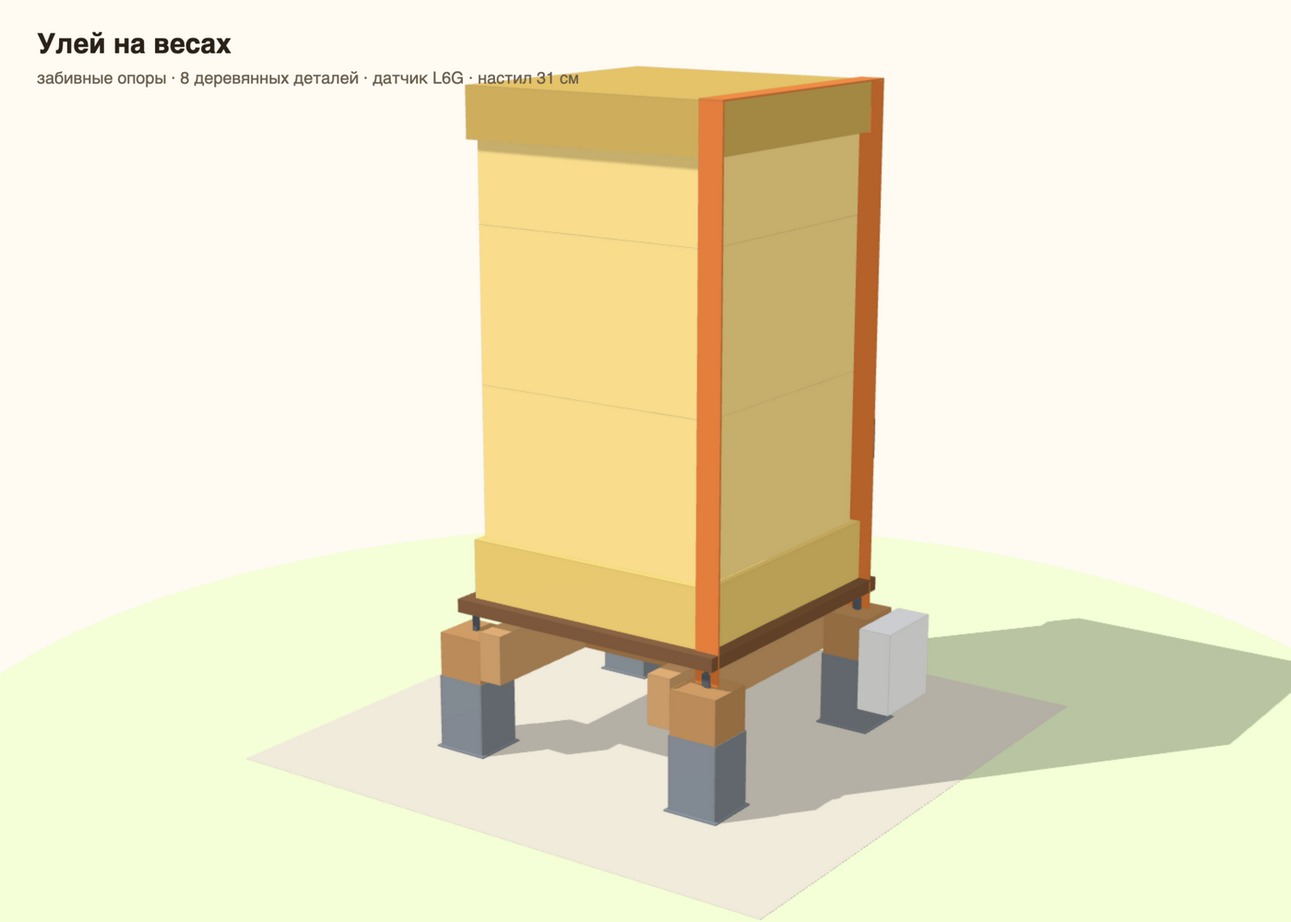
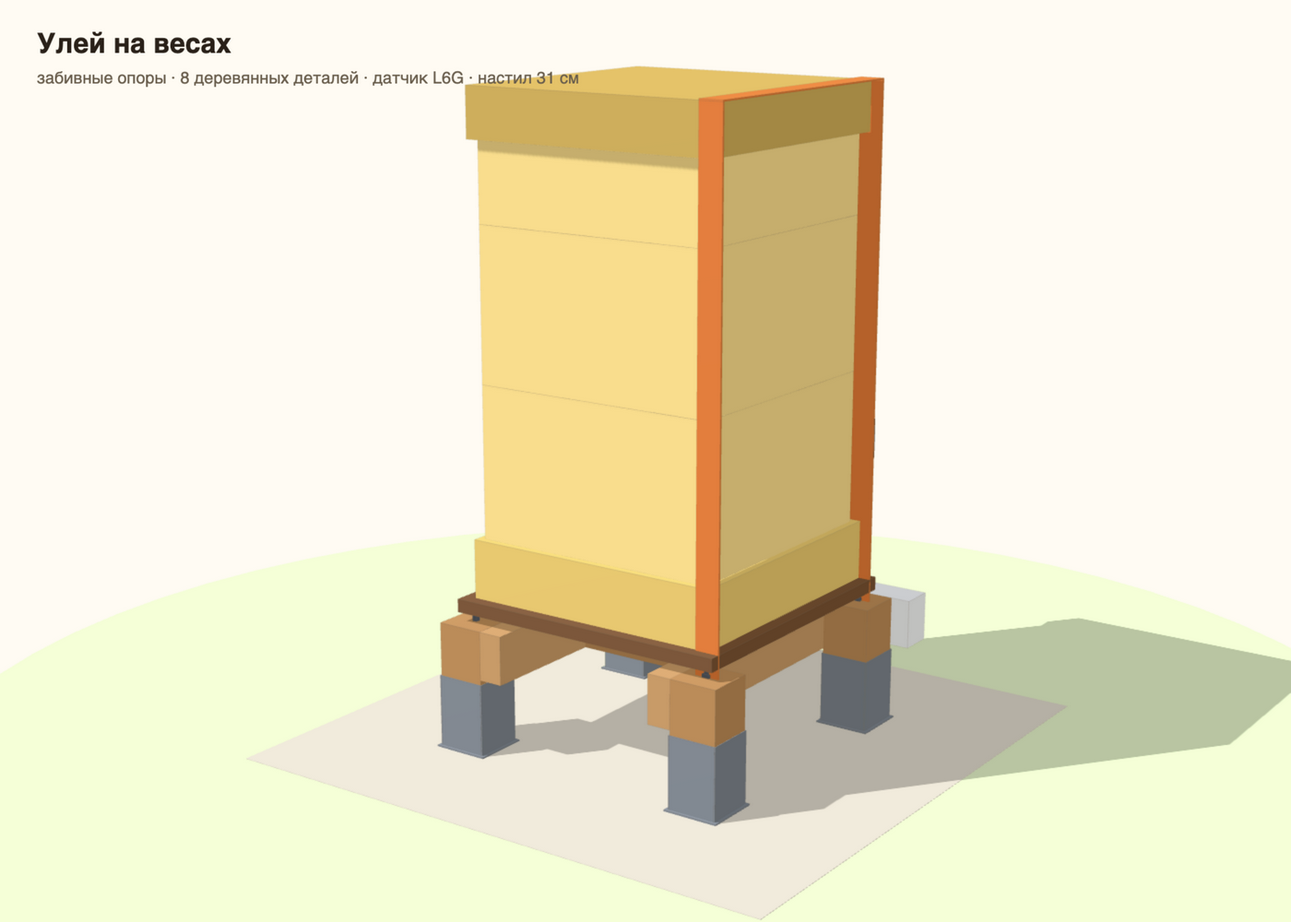
Правки геометрии: ножки вровень с лежнями, корпус на заднюю грань
- верх ножек 240→260 мм: лежень больше не перехлёстывает стойку,
  верхний болт М10 получил 25 мм от торца вместо 5 мм
- стоп-шпилька укорочена до реальных 17 мм выступа (гайки у настила)
- корпус электроники перенесён на чистую заднюю грань задней ножки:
  раньше висел на наружной грани и пересекался с гайками болтов М10
- BUILD: заготовки ножек 300 мм, срез 260 мм, пояснение про грань

diff --git a/docs/tools/assembly.html b/docs/tools/assembly.html
@@ -90,17 +90,17 @@
   var elSlider = document.getElementById('asm-explode');
   var elSliderVal = document.getElementById('asm-explode-val');
 
-  var DATA = {"boxes":[{"name":"Забивная опора 100×100: пика","x0":-295,"x1":-255,"y0":-295,"y1":-255,"z0":-900,"z1":0,"color":"#8D99A6","group":"base","num":9},{"name":"Забивная опора 100×100: пластина","x0":-333,"x1":-217,"y0":-333,"y1":-217,"z0":0,"z1":3,"color":"#8D99A6","group":"base","num":9},{"name":"Забивная опора 100×100: стакан","x0":-327,"x1":-325,"y0":-327,"y1":-223,"z0":3,"z1":150,"color":"#8D99A6","group":"base","num":9},{"name":"Забивная опора 100×100: стакан","x0":-225,"x1":-223,"y0":-327,"y1":-223,"z0":3,"z1":150,"color":"#8D99A6","group":"base","num":9},{"name":"Забивная опора 100×100: стакан","x0":-325,"x1":-225,"y0":-327,"y1":-325,"z0":3,"z1":150,"color":"#8D99A6","group":"base","num":9},{"name":"Забивная опора 100×100: стакан","x0":-325,"x1":-225,"y0":-225,"y1":-223,"z0":3,"z1":150,"color":"#8D99A6","group":"base","num":9},{"name":"Ножка: брус 100×100","x0":-325,"x1":-225,"y0":-325,"y1":-225,"z0":3,"z1":240,"color":"#B9824A","group":"base","num":1},{"name":"Забивная опора 100×100: пика","x0":-295,"x1":-255,"y0":255,"y1":295,"z0":-900,"z1":0,"color":"#8D99A6","group":"base","num":9},{"name":"Забивная опора 100×100: пластина","x0":-333,"x1":-217,"y0":217,"y1":333,"z0":0,"z1":3,"color":"#8D99A6","group":"base","num":9},{"name":"Забивная опора 100×100: стакан","x0":-327,"x1":-325,"y0":223,"y1":327,"z0":3,"z1":150,"color":"#8D99A6","group":"base","num":9},{"name":"Забивная опора 100×100: стакан","x0":-225,"x1":-223,"y0":223,"y1":327,"z0":3,"z1":150,"color":"#8D99A6","group":"base","num":9},{"name":"Забивная опора 100×100: стакан","x0":-325,"x1":-225,"y0":223,"y1":225,"z0":3,"z1":150,"color":"#8D99A6","group":"base","num":9},{"name":"Забивная опора 100×100: стакан","x0":-325,"x1":-225,"y0":325,"y1":327,"z0":3,"z1":150,"color":"#8D99A6","group":"base","num":9},{"name":"Ножка: брус 100×100","x0":-325,"x1":-225,"y0":225,"y1":325,"z0":3,"z1":240,"color":"#B9824A","group":"base","num":1},{"name":"Забивная опора 100×100: пика","x0":255,"x1":295,"y0":-295,"y1":-255,"z0":-900,"z1":0,"color":"#8D99A6","group":"base","num":9},{"name":"Забивная опора 100×100: пластина","x0":217,"x1":333,"y0":-333,"y1":-217,"z0":0,"z1":3,"color":"#8D99A6","group":"base","num":9},{"name":"Забивная опора 100×100: стакан","x0":223,"x1":225,"y0":-327,"y1":-223,"z0":3,"z1":150,"color":"#8D99A6","group":"base","num":9},{"name":"Забивная опора 100×100: стакан","x0":325,"x1":327,"y0":-327,"y1":-223,"z0":3,"z1":150,"color":"#8D99A6","group":"base","num":9},{"name":"Забивная опора 100×100: стакан","x0":225,"x1":325,"y0":-327,"y1":-325,"z0":3,"z1":150,"color":"#8D99A6","group":"base","num":9},{"name":"Забивная опора 100×100: стакан","x0":225,"x1":325,"y0":-225,"y1":-223,"z0":3,"z1":150,"color":"#8D99A6","group":"base","num":9},{"name":"Ножка: брус 100×100","x0":225,"x1":325,"y0":-325,"y1":-225,"z0":3,"z1":240,"color":"#B9824A","group":"base","num":1},{"name":"Забивная опора 100×100: пика","x0":255,"x1":295,"y0":255,"y1":295,"z0":-900,"z1":0,"color":"#8D99A6","group":"base","num":9},{"name":"Забивная опора 100×100: пластина","x0":217,"x1":333,"y0":217,"y1":333,"z0":0,"z1":3,"color":"#8D99A6","group":"base","num":9},{"name":"Забивная опора 100×100: стакан","x0":223,"x1":225,"y0":223,"y1":327,"z0":3,"z1":150,"color":"#8D99A6","group":"base","num":9},{"name":"Забивная опора 100×100: стакан","x0":325,"x1":327,"y0":223,"y1":327,"z0":3,"z1":150,"color":"#8D99A6","group":"base","num":9},{"name":"Забивная опора 100×100: стакан","x0":225,"x1":325,"y0":223,"y1":225,"z0":3,"z1":150,"color":"#8D99A6","group":"base","num":9},{"name":"Забивная опора 100×100: стакан","x0":225,"x1":325,"y0":325,"y1":327,"z0":3,"z1":150,"color":"#8D99A6","group":"base","num":9},{"name":"Ножка: брус 100×100","x0":225,"x1":325,"y0":225,"y1":325,"z0":3,"z1":240,"color":"#B9824A","group":"base","num":1},{"name":"Лежень: доска 50×100×650","x0":-225,"x1":-175,"y0":-325,"y1":325,"z0":160,"z1":260,"color":"#C69159","group":"base","num":2},{"name":"Лежень: доска 50×100×650","x0":175,"x1":225,"y0":-325,"y1":325,"z0":160,"z1":260,"color":"#C69159","group":"base","num":2},{"name":"Средняя поперечина: доска 50×100×350 плашмя","x0":-175,"x1":175,"y0":-50.0,"y1":50.0,"z0":160,"z1":210,"color":"#B9824A","group":"base","num":3},{"name":"Проставка, сталь 10 мм (неподвижный конец)","x0":-87.0,"x1":-7.0,"y0":-32.5,"y1":32.5,"z0":210,"z1":220,"color":"#4F5862","group":"base","num":4},{"name":"Датчик L6G 300 кг","x0":-87.0,"x1":87.0,"y0":-32.5,"y1":32.5,"z0":220,"z1":280,"color":"#C9CED4","group":"cell","num":5},{"name":"Настил: ламинированная фанера 27 мм, 600×600","x0":-300.0,"x1":300.0,"y0":-300.0,"y1":300.0,"z0":280,"z1":307,"color":"#7A4E2D","group":"deck","num":6},{"name":"Корпус электроники IP65","x0":325,"x1":395,"y0":195,"y1":355,"z0":60,"z1":230,"color":"#E6E9EC","group":"base","num":8},{"name":"Дно: ППУ 550×550×120","x0":-275.0,"x1":275.0,"y0":-275.0,"y1":275.0,"z0":307,"z1":427,"color":"#E3BE5A","group":"hive","num":null},{"name":"Корпус: ППУ 520×520×310","x0":-260.0,"x1":260.0,"y0":-260.0,"y1":260.0,"z0":427,"z1":737,"color":"#F2D27A","group":"hive","num":null},{"name":"Корпус: ППУ 520×520×310","x0":-260.0,"x1":260.0,"y0":-260.0,"y1":260.0,"z0":737,"z1":1047,"color":"#F2D27A","group":"hive","num":null},{"name":"Магазин: ППУ 520×520×160","x0":-260.0,"x1":260.0,"y0":-260.0,"y1":260.0,"z0":1047,"z1":1207,"color":"#F2D27A","group":"hive","num":null},{"name":"Крыша: ППУ 550×550×100","x0":-275.0,"x1":275.0,"y0":-275.0,"y1":275.0,"z0":1207,"z1":1307,"color":"#C9A445","group":"hive","num":null},{"name":"Ремень крюк-болт: полотно по кромке крыши","x0":250.0,"x1":300.0,"y0":-279.0,"y1":279.0,"z0":1307,"z1":1310,"color":"#E8701A","group":"strap","num":null},{"name":"Ремень: ветвь к передней шпильке","x0":250.0,"x1":300.0,"y0":-279.0,"y1":-275.0,"z0":245,"z1":1307,"color":"#E8701A","group":"strap","num":null},{"name":"Ремень: ветвь к задней шпильке","x0":250.0,"x1":300.0,"y0":275.0,"y1":279.0,"z0":245,"z1":1307,"color":"#E8701A","group":"strap","num":null},{"name":"Крюк ремня за стоп-шпильку (передняя)","x0":267.0,"x1":283.0,"y0":-283.0,"y1":-267.0,"z0":243,"z1":267,"color":"#4F5862","group":"strap","num":null},{"name":"Крюк ремня за стоп-шпильку (задняя)","x0":267.0,"x1":283.0,"y0":267.0,"y1":283.0,"z0":243,"z1":267,"color":"#4F5862","group":"strap","num":null},{"name":"Механизм натяжения ремня","x0":254.0,"x1":296.0,"y0":279.0,"y1":288.0,"z0":560,"z1":640,"color":"#3A424A","group":"strap","num":null}]};
+  var DATA = {"boxes":[{"name":"Забивная опора 100×100: пика","x0":-295,"x1":-255,"y0":-295,"y1":-255,"z0":-900,"z1":0,"color":"#8D99A6","group":"base","num":9},{"name":"Забивная опора 100×100: пластина","x0":-333,"x1":-217,"y0":-333,"y1":-217,"z0":0,"z1":3,"color":"#8D99A6","group":"base","num":9},{"name":"Забивная опора 100×100: стакан","x0":-327,"x1":-325,"y0":-327,"y1":-223,"z0":3,"z1":150,"color":"#8D99A6","group":"base","num":9},{"name":"Забивная опора 100×100: стакан","x0":-225,"x1":-223,"y0":-327,"y1":-223,"z0":3,"z1":150,"color":"#8D99A6","group":"base","num":9},{"name":"Забивная опора 100×100: стакан","x0":-325,"x1":-225,"y0":-327,"y1":-325,"z0":3,"z1":150,"color":"#8D99A6","group":"base","num":9},{"name":"Забивная опора 100×100: стакан","x0":-325,"x1":-225,"y0":-225,"y1":-223,"z0":3,"z1":150,"color":"#8D99A6","group":"base","num":9},{"name":"Ножка: брус 100×100","x0":-325,"x1":-225,"y0":-325,"y1":-225,"z0":3,"z1":260,"color":"#B9824A","group":"base","num":1},{"name":"Забивная опора 100×100: пика","x0":-295,"x1":-255,"y0":255,"y1":295,"z0":-900,"z1":0,"color":"#8D99A6","group":"base","num":9},{"name":"Забивная опора 100×100: пластина","x0":-333,"x1":-217,"y0":217,"y1":333,"z0":0,"z1":3,"color":"#8D99A6","group":"base","num":9},{"name":"Забивная опора 100×100: стакан","x0":-327,"x1":-325,"y0":223,"y1":327,"z0":3,"z1":150,"color":"#8D99A6","group":"base","num":9},{"name":"Забивная опора 100×100: стакан","x0":-225,"x1":-223,"y0":223,"y1":327,"z0":3,"z1":150,"color":"#8D99A6","group":"base","num":9},{"name":"Забивная опора 100×100: стакан","x0":-325,"x1":-225,"y0":223,"y1":225,"z0":3,"z1":150,"color":"#8D99A6","group":"base","num":9},{"name":"Забивная опора 100×100: стакан","x0":-325,"x1":-225,"y0":325,"y1":327,"z0":3,"z1":150,"color":"#8D99A6","group":"base","num":9},{"name":"Ножка: брус 100×100","x0":-325,"x1":-225,"y0":225,"y1":325,"z0":3,"z1":260,"color":"#B9824A","group":"base","num":1},{"name":"Забивная опора 100×100: пика","x0":255,"x1":295,"y0":-295,"y1":-255,"z0":-900,"z1":0,"color":"#8D99A6","group":"base","num":9},{"name":"Забивная опора 100×100: пластина","x0":217,"x1":333,"y0":-333,"y1":-217,"z0":0,"z1":3,"color":"#8D99A6","group":"base","num":9},{"name":"Забивная опора 100×100: стакан","x0":223,"x1":225,"y0":-327,"y1":-223,"z0":3,"z1":150,"color":"#8D99A6","group":"base","num":9},{"name":"Забивная опора 100×100: стакан","x0":325,"x1":327,"y0":-327,"y1":-223,"z0":3,"z1":150,"color":"#8D99A6","group":"base","num":9},{"name":"Забивная опора 100×100: стакан","x0":225,"x1":325,"y0":-327,"y1":-325,"z0":3,"z1":150,"color":"#8D99A6","group":"base","num":9},{"name":"Забивная опора 100×100: стакан","x0":225,"x1":325,"y0":-225,"y1":-223,"z0":3,"z1":150,"color":"#8D99A6","group":"base","num":9},{"name":"Ножка: брус 100×100","x0":225,"x1":325,"y0":-325,"y1":-225,"z0":3,"z1":260,"color":"#B9824A","group":"base","num":1},{"name":"Забивная опора 100×100: пика","x0":255,"x1":295,"y0":255,"y1":295,"z0":-900,"z1":0,"color":"#8D99A6","group":"base","num":9},{"name":"Забивная опора 100×100: пластина","x0":217,"x1":333,"y0":217,"y1":333,"z0":0,"z1":3,"color":"#8D99A6","group":"base","num":9},{"name":"Забивная опора 100×100: стакан","x0":223,"x1":225,"y0":223,"y1":327,"z0":3,"z1":150,"color":"#8D99A6","group":"base","num":9},{"name":"Забивная опора 100×100: стакан","x0":325,"x1":327,"y0":223,"y1":327,"z0":3,"z1":150,"color":"#8D99A6","group":"base","num":9},{"name":"Забивная опора 100×100: стакан","x0":225,"x1":325,"y0":223,"y1":225,"z0":3,"z1":150,"color":"#8D99A6","group":"base","num":9},{"name":"Забивная опора 100×100: стакан","x0":225,"x1":325,"y0":325,"y1":327,"z0":3,"z1":150,"color":"#8D99A6","group":"base","num":9},{"name":"Ножка: брус 100×100","x0":225,"x1":325,"y0":225,"y1":325,"z0":3,"z1":260,"color":"#B9824A","group":"base","num":1},{"name":"Лежень: доска 50×100×650","x0":-225,"x1":-175,"y0":-325,"y1":325,"z0":160,"z1":260,"color":"#C69159","group":"base","num":2},{"name":"Лежень: доска 50×100×650","x0":175,"x1":225,"y0":-325,"y1":325,"z0":160,"z1":260,"color":"#C69159","group":"base","num":2},{"name":"Средняя поперечина: доска 50×100×350 плашмя","x0":-175,"x1":175,"y0":-50.0,"y1":50.0,"z0":160,"z1":210,"color":"#B9824A","group":"base","num":3},{"name":"Проставка, сталь 10 мм (неподвижный конец)","x0":-87.0,"x1":-7.0,"y0":-32.5,"y1":32.5,"z0":210,"z1":220,"color":"#4F5862","group":"base","num":4},{"name":"Датчик L6G 300 кг","x0":-87.0,"x1":87.0,"y0":-32.5,"y1":32.5,"z0":220,"z1":280,"color":"#C9CED4","group":"cell","num":5},{"name":"Настил: ламинированная фанера 27 мм, 600×600","x0":-300.0,"x1":300.0,"y0":-300.0,"y1":300.0,"z0":280,"z1":307,"color":"#7A4E2D","group":"deck","num":6},{"name":"Корпус электроники IP65","x0":215,"x1":365,"y0":325,"y1":395,"z0":160,"z1":260,"color":"#E6E9EC","group":"base","num":8},{"name":"Дно: ППУ 550×550×120","x0":-275.0,"x1":275.0,"y0":-275.0,"y1":275.0,"z0":307,"z1":427,"color":"#E3BE5A","group":"hive","num":null},{"name":"Корпус: ППУ 520×520×310","x0":-260.0,"x1":260.0,"y0":-260.0,"y1":260.0,"z0":427,"z1":737,"color":"#F2D27A","group":"hive","num":null},{"name":"Корпус: ППУ 520×520×310","x0":-260.0,"x1":260.0,"y0":-260.0,"y1":260.0,"z0":737,"z1":1047,"color":"#F2D27A","group":"hive","num":null},{"name":"Магазин: ППУ 520×520×160","x0":-260.0,"x1":260.0,"y0":-260.0,"y1":260.0,"z0":1047,"z1":1207,"color":"#F2D27A","group":"hive","num":null},{"name":"Крыша: ППУ 550×550×100","x0":-275.0,"x1":275.0,"y0":-275.0,"y1":275.0,"z0":1207,"z1":1307,"color":"#C9A445","group":"hive","num":null},{"name":"Ремень крюк-болт: полотно по кромке крыши","x0":250.0,"x1":300.0,"y0":-279.0,"y1":279.0,"z0":1307,"z1":1310,"color":"#E8701A","group":"strap","num":null},{"name":"Ремень: ветвь к передней шпильке","x0":250.0,"x1":300.0,"y0":-279.0,"y1":-275.0,"z0":245,"z1":1307,"color":"#E8701A","group":"strap","num":null},{"name":"Ремень: ветвь к задней шпильке","x0":250.0,"x1":300.0,"y0":275.0,"y1":279.0,"z0":245,"z1":1307,"color":"#E8701A","group":"strap","num":null},{"name":"Крюк ремня за стоп-шпильку (передняя)","x0":267.0,"x1":283.0,"y0":-283.0,"y1":-267.0,"z0":243,"z1":267,"color":"#4F5862","group":"strap","num":null},{"name":"Крюк ремня за стоп-шпильку (задняя)","x0":267.0,"x1":283.0,"y0":267.0,"y1":283.0,"z0":243,"z1":267,"color":"#4F5862","group":"strap","num":null},{"name":"Механизм натяжения ремня","x0":254.0,"x1":296.0,"y0":279.0,"y1":288.0,"z0":560,"z1":640,"color":"#3A424A","group":"strap","num":null}]};
 
   var STEPS = [
     { t: 'Опоры — все четыре', badges: ['поз. 9'],
       d: 'Забиваем кувалдой по углам шаблона 550×550: стакан на земле, пика на 90 см в грунте. Каждые несколько ударов — уровень с двух сторон.',
       m: function (b) { return b.name.indexOf('Забивная опора') === 0; } },
     { t: 'Ножка №1 — передняя левая', badges: ['поз. 1'],
-      d: 'Брус в стакан, четыре самореза 5×50 через готовые отверстия Ø5. Задние ножки — 240 мм над землёй.',
+      d: 'Брус в стакан, четыре самореза 5×50 через готовые отверстия Ø5. Задние ножки — 260 мм над землёй, вровень с верхом лежней.',
       m: function (b) { return b.name.indexOf('Ножка: брус') === 0 && b.x0 < 0 && b.y0 < 0; } },
     { t: 'Ножка №2 — задняя левая', badges: ['поз. 1'],
-      d: 'То же: брус в стакан, четыре самореза. Задняя — 240 мм над землёй.',
+      d: 'То же: брус в стакан, четыре самореза. Задняя — 260 мм, вровень с лежнями.',
       m: function (b) { return b.name.indexOf('Ножка: брус') === 0 && b.x0 < 0 && b.y0 > 0; } },
     { t: 'Ножка №3 — передняя правая', badges: ['поз. 1'],
       d: 'Передние ножки ниже задних на 1–2 см — улей наклонится к летку. Брус в стакан, четыре самореза.',
@@ -523,7 +523,7 @@
     [-25, 25].forEach(function (y) { hole(10, sx * 225.8, y, 185, 6, sx, 0, 0); });
   });
   [[-65, -17], [-65, 17], [-30, -17], [-30, 17]].forEach(function (p) { hole(14, p[0], p[1], 159.3, 9, 0, 0, -1); });
-  [[-275, -275], [-275, 275], [275, -275], [275, 275]].forEach(function (p) { hole(17, p[0], p[1], 240.8, 8, 0, 0, 1); });
+  [[-275, -275], [-275, 275], [275, -275], [275, 275]].forEach(function (p) { hole(17, p[0], p[1], 260.8, 8, 0, 0, 1); });
 
   // пилотные отверстия Ø4 под саморезы
   [-1, 1].forEach(function (sx) {
@@ -537,17 +537,17 @@
   // 9) стоп-шпильки: вкручиваются в торцы ножек, следом гайка + контргайка (зазор до настила 3 мм)
   [[-275, -275], [-275, 275], [275, -275], [275, 275]].forEach(function (p) {
     var sp = new THREE.Group();
-    var sh = new THREE.Mesh(new THREE.CylinderGeometry(5, 5, 37, 10), MAT_ZINC); sh.position.y = 18.5;
+    var sh = new THREE.Mesh(new THREE.CylinderGeometry(5, 5, 17, 10), MAT_ZINC); sh.position.y = 8.5;
     sp.add(sh);
     var nutG = new THREE.Group();
     var wash = new THREE.Mesh(new THREE.CylinderGeometry(11, 11, 2, 12), MAT_PLATE); wash.position.y = 1;
     var n1 = new THREE.Mesh(new THREE.CylinderGeometry(8.6, 8.6, 8, 6), MAT_ZINC); n1.position.y = 6;
     var n2 = new THREE.Mesh(new THREE.CylinderGeometry(8.6, 8.6, 8, 6), MAT_ZINC); n2.position.y = 13;
     nutG.add(wash); nutG.add(n1); nutG.add(n2);
-    nutG.userData.fy = 18;
+    nutG.userData.fy = 0;
     sp.userData.nut = nutG;
     addFastener({ name: 'Стоп-шпилька М10×100: сверло Ø8 в торец ножки на 70 мм · гайка + контргайка · зазор до настила 3 мм', num: 7, step: 17, off: 60 },
-      sp, { x: 0, y: 0, z: -1 }, { x: p[0], y: p[1], z: 240 }, toThree(0, 0, 140));
+      sp, { x: 0, y: 0, z: -1 }, { x: p[0], y: p[1], z: 260 }, toThree(0, 0, 120));
   });
 
   // ---- камера ----
@@ -707,17 +707,17 @@
     { a: 0.0, p: 1.78, r: 470, t: [-47, 148, 0], hold: 9500 },
     { a: 0.85, p: 0.8, r: 1700, t: [0, 340, 0], hold: 5000 },
     { a: 0.8, p: 0.7, r: 560, t: [47, 300, 0], hold: 9500 },
-    { a: 0.7, p: 1.25, r: 750, t: [250, 250, 250], hold: 9500 },
-    { a: 1.3, p: 1.05, r: 1400, t: [360, 150, -275], hold: 5000 },
+    { a: 0.7, p: 1.25, r: 750, t: [250, 265, 250], hold: 9500 },
+    { a: 1.3, p: 1.05, r: 1400, t: [290, 210, -360], hold: 5000 },
     { a: 0.75, p: 0.95, r: 3000, t: [0, 650, 0], hold: 5500 },
     { a: 0.9, p: 0.9, r: 3400, t: [275, 800, 0], hold: 8000 }
   ];
   var ANNO = [
     [['шаблон 550×550 по осям опор', -275, -275, 60]],
     [['саморезы 5×50 через стенку стакана', -330, -275, 85]],
-    [['задняя левая: 240 мм над землёй', -275, 275, 235]],
-    [['передняя правая: ниже на 1–2 см', 275, -275, 230]],
-    [['задняя правая', 275, 275, 235]],
+    [['задняя левая: 260 мм, вровень с лежнями', -275, 275, 255]],
+    [['передняя правая: ниже на 1–2 см', 275, -275, 250]],
+    [['задняя правая', 275, 275, 255]],
     [['Ø11 насквозь · болты М10×160 · ключ 17', -175, -250, 212]],
     [['Ø11 насквозь · болты М10×160', 175, 250, 212]],
     [['Ø4 → саморезы 6×40 в лежень', -168, 30, 185]],
@@ -730,8 +730,8 @@
     [['Ø9 насквозь · пластина · 25 Н·м', -47, 0, 152]],
     [['фанера 27 мм прямо на датчик', 0, 0, 312]],
     [['Ø9 + зенковка · винты М8×45 потайные', 47, 0, 307]],
-    [['Ø8 на 70 мм · гайки · зазор 3 мм', 326, 326, 255]],
-    [['корпус на неподвижной ножке', 360, 275, 150]],
+    [['Ø8 на 70 мм · гайки · зазор 3 мм', 326, 326, 270]],
+    [['корпус на задней грани ножки', 290, 360, 210]],
     [['вес: настил → датчик → рама', 0, 0, 325]],
     [['крюки за стоп-шпильки · полотно по кромке', 275, 0, 1290]]
   ];

diff --git a/docs/tools/model.js b/docs/tools/model.js
@@ -1,1 +1,1 @@
-const MODEL = {"boxes": [{"name": "Грунт", "x0": -600, "x1": 600, "y0": -600, "y1": 600, "z0": -1000, "z1": 0, "color": "#CFC8BA", "group": "ground", "num": null}, {"name": "Забивная опора 100×100: пика", "x0": -295, "x1": -255, "y0": -295, "y1": -255, "z0": -900, "z1": 0, "color": "#8D99A6", "group": "base", "num": 9}, {"name": "Забивная опора 100×100: пластина", "x0": -333, "x1": -217, "y0": -333, "y1": -217, "z0": 0, "z1": 3, "color": "#8D99A6", "group": "base", "num": 9}, {"name": "Забивная опора 100×100: стакан", "x0": -327, "x1": -325, "y0": -327, "y1": -223, "z0": 3, "z1": 150, "color": "#8D99A6", "group": "base", "num": 9}, {"name": "Забивная опора 100×100: стакан", "x0": -225, "x1": -223, "y0": -327, "y1": -223, "z0": 3, "z1": 150, "color": "#8D99A6", "group": "base", "num": 9}, {"name": "Забивная опора 100×100: стакан", "x0": -325, "x1": -225, "y0": -327, "y1": -325, "z0": 3, "z1": 150, "color": "#8D99A6", "group": "base", "num": 9}, {"name": "Забивная опора 100×100: стакан", "x0": -325, "x1": -225, "y0": -225, "y1": -223, "z0": 3, "z1": 150, "color": "#8D99A6", "group": "base", "num": 9}, {"name": "Ножка: брус 100×100", "x0": -325, "x1": -225, "y0": -325, "y1": -225, "z0": 3, "z1": 240, "color": "#B9824A", "group": "base", "num": 1}, {"name": "Забивная опора 100×100: пика", "x0": -295, "x1": -255, "y0": 255, "y1": 295, "z0": -900, "z1": 0, "color": "#8D99A6", "group": "base", "num": 9}, {"name": "Забивная опора 100×100: пластина", "x0": -333, "x1": -217, "y0": 217, "y1": 333, "z0": 0, "z1": 3, "color": "#8D99A6", "group": "base", "num": 9}, {"name": "Забивная опора 100×100: стакан", "x0": -327, "x1": -325, "y0": 223, "y1": 327, "z0": 3, "z1": 150, "color": "#8D99A6", "group": "base", "num": 9}, {"name": "Забивная опора 100×100: стакан", "x0": -225, "x1": -223, "y0": 223, "y1": 327, "z0": 3, "z1": 150, "color": "#8D99A6", "group": "base", "num": 9}, {"name": "Забивная опора 100×100: стакан", "x0": -325, "x1": -225, "y0": 223, "y1": 225, "z0": 3, "z1": 150, "color": "#8D99A6", "group": "base", "num": 9}, {"name": "Забивная опора 100×100: стакан", "x0": -325, "x1": -225, "y0": 325, "y1": 327, "z0": 3, "z1": 150, "color": "#8D99A6", "group": "base", "num": 9}, {"name": "Ножка: брус 100×100", "x0": -325, "x1": -225, "y0": 225, "y1": 325, "z0": 3, "z1": 240, "color": "#B9824A", "group": "base", "num": 1}, {"name": "Забивная опора 100×100: пика", "x0": 255, "x1": 295, "y0": -295, "y1": -255, "z0": -900, "z1": 0, "color": "#8D99A6", "group": "base", "num": 9}, {"name": "Забивная опора 100×100: пластина", "x0": 217, "x1": 333, "y0": -333, "y1": -217, "z0": 0, "z1": 3, "color": "#8D99A6", "group": "base", "num": 9}, {"name": "Забивная опора 100×100: стакан", "x0": 223, "x1": 225, "y0": -327, "y1": -223, "z0": 3, "z1": 150, "color": "#8D99A6", "group": "base", "num": 9}, {"name": "Забивная опора 100×100: стакан", "x0": 325, "x1": 327, "y0": -327, "y1": -223, "z0": 3, "z1": 150, "color": "#8D99A6", "group": "base", "num": 9}, {"name": "Забивная опора 100×100: стакан", "x0": 225, "x1": 325, "y0": -327, "y1": -325, "z0": 3, "z1": 150, "color": "#8D99A6", "group": "base", "num": 9}, {"name": "Забивная опора 100×100: стакан", "x0": 225, "x1": 325, "y0": -225, "y1": -223, "z0": 3, "z1": 150, "color": "#8D99A6", "group": "base", "num": 9}, {"name": "Ножка: брус 100×100", "x0": 225, "x1": 325, "y0": -325, "y1": -225, "z0": 3, "z1": 240, "color": "#B9824A", "group": "base", "num": 1}, {"name": "Забивная опора 100×100: пика", "x0": 255, "x1": 295, "y0": 255, "y1": 295, "z0": -900, "z1": 0, "color": "#8D99A6", "group": "base", "num": 9}, {"name": "Забивная опора 100×100: пластина", "x0": 217, "x1": 333, "y0": 217, "y1": 333, "z0": 0, "z1": 3, "color": "#8D99A6", "group": "base", "num": 9}, {"name": "Забивная опора 100×100: стакан", "x0": 223, "x1": 225, "y0": 223, "y1": 327, "z0": 3, "z1": 150, "color": "#8D99A6", "group": "base", "num": 9}, {"name": "Забивная опора 100×100: стакан", "x0": 325, "x1": 327, "y0": 223, "y1": 327, "z0": 3, "z1": 150, "color": "#8D99A6", "group": "base", "num": 9}, {"name": "Забивная опора 100×100: стакан", "x0": 225, "x1": 325, "y0": 223, "y1": 225, "z0": 3, "z1": 150, "color": "#8D99A6", "group": "base", "num": 9}, {"name": "Забивная опора 100×100: стакан", "x0": 225, "x1": 325, "y0": 325, "y1": 327, "z0": 3, "z1": 150, "color": "#8D99A6", "group": "base", "num": 9}, {"name": "Ножка: брус 100×100", "x0": 225, "x1": 325, "y0": 225, "y1": 325, "z0": 3, "z1": 240, "color": "#B9824A", "group": "base", "num": 1}, {"name": "Лежень: доска 50×100×650", "x0": -225, "x1": -175, "y0": -325, "y1": 325, "z0": 160, "z1": 260, "color": "#C69159", "group": "base", "num": 2}, {"name": "Лежень: доска 50×100×650", "x0": 175, "x1": 225, "y0": -325, "y1": 325, "z0": 160, "z1": 260, "color": "#C69159", "group": "base", "num": 2}, {"name": "Средняя поперечина: доска 50×100×350 плашмя", "x0": -175, "x1": 175, "y0": -50.0, "y1": 50.0, "z0": 160, "z1": 210, "color": "#B9824A", "group": "base", "num": 3}, {"name": "Проставка, сталь 10 мм (неподвижный конец)", "x0": -87.0, "x1": -7.0, "y0": -32.5, "y1": 32.5, "z0": 210, "z1": 220, "color": "#4F5862", "group": "base", "num": 4}, {"name": "Датчик L6G 300 кг", "x0": -87.0, "x1": 87.0, "y0": -32.5, "y1": 32.5, "z0": 220, "z1": 280, "color": "#C9CED4", "group": "cell", "num": 5}, {"name": "Настил: ламинированная фанера 27 мм, 600×600", "x0": -300.0, "x1": 300.0, "y0": -300.0, "y1": 300.0, "z0": 280, "z1": 307, "color": "#7A4E2D", "group": "deck", "num": 6}, {"name": "Стоп-болт: шуруп-шпилька М10", "x0": -280, "x1": -270, "y0": -280, "y1": -270, "z0": 240, "z1": 296, "color": "#4F5862", "group": "base", "num": 7}, {"name": "Стоп-болт: гайка", "x0": -284, "x1": -266, "y0": -284, "y1": -266, "z0": 296, "z1": 304, "color": "#3A424A", "group": "base", "num": 7}, {"name": "Стоп-болт: шуруп-шпилька М10", "x0": -280, "x1": -270, "y0": 270, "y1": 280, "z0": 240, "z1": 296, "color": "#4F5862", "group": "base", "num": 7}, {"name": "Стоп-болт: гайка", "x0": -284, "x1": -266, "y0": 266, "y1": 284, "z0": 296, "z1": 304, "color": "#3A424A", "group": "base", "num": 7}, {"name": "Стоп-болт: шуруп-шпилька М10", "x0": 270, "x1": 280, "y0": -280, "y1": -270, "z0": 240, "z1": 296, "color": "#4F5862", "group": "base", "num": 7}, {"name": "Стоп-болт: гайка", "x0": 266, "x1": 284, "y0": -284, "y1": -266, "z0": 296, "z1": 304, "color": "#3A424A", "group": "base", "num": 7}, {"name": "Стоп-болт: шуруп-шпилька М10", "x0": 270, "x1": 280, "y0": 270, "y1": 280, "z0": 240, "z1": 296, "color": "#4F5862", "group": "base", "num": 7}, {"name": "Стоп-болт: гайка", "x0": 266, "x1": 284, "y0": 266, "y1": 284, "z0": 296, "z1": 304, "color": "#3A424A", "group": "base", "num": 7}, {"name": "Корпус электроники IP65", "x0": 325, "x1": 395, "y0": 195, "y1": 355, "z0": 60, "z1": 230, "color": "#E6E9EC", "group": "base", "num": 8}, {"name": "Дно: ППУ 550×550×120", "x0": -275.0, "x1": 275.0, "y0": -275.0, "y1": 275.0, "z0": 307, "z1": 427, "color": "#E3BE5A", "group": "hive", "num": null}, {"name": "Корпус: ППУ 520×520×310", "x0": -260.0, "x1": 260.0, "y0": -260.0, "y1": 260.0, "z0": 427, "z1": 737, "color": "#F2D27A", "group": "hive", "num": null}, {"name": "Корпус: ППУ 520×520×310", "x0": -260.0, "x1": 260.0, "y0": -260.0, "y1": 260.0, "z0": 737, "z1": 1047, "color": "#F2D27A", "group": "hive", "num": null}, {"name": "Магазин: ППУ 520×520×160", "x0": -260.0, "x1": 260.0, "y0": -260.0, "y1": 260.0, "z0": 1047, "z1": 1207, "color": "#F2D27A", "group": "hive", "num": null}, {"name": "Крыша: ППУ 550×550×100", "x0": -275.0, "x1": 275.0, "y0": -275.0, "y1": 275.0, "z0": 1207, "z1": 1307, "color": "#C9A445", "group": "hive", "num": null}, {"name": "Ремень крюк-болт: полотно по кромке крыши", "x0": 250.0, "x1": 300.0, "y0": -279.0, "y1": 279.0, "z0": 1307, "z1": 1310, "color": "#E8701A", "group": "strap", "num": null}, {"name": "Ремень: ветвь к передней шпильке", "x0": 250.0, "x1": 300.0, "y0": -279.0, "y1": -275.0, "z0": 245, "z1": 1307, "color": "#E8701A", "group": "strap", "num": null}, {"name": "Ремень: ветвь к задней шпильке", "x0": 250.0, "x1": 300.0, "y0": 275.0, "y1": 279.0, "z0": 245, "z1": 1307, "color": "#E8701A", "group": "strap", "num": null}, {"name": "Крюк ремня за стоп-шпильку (передняя)", "x0": 267.0, "x1": 283.0, "y0": -283.0, "y1": -267.0, "z0": 243, "z1": 267, "color": "#4F5862", "group": "strap", "num": null}, {"name": "Крюк ремня за стоп-шпильку (задняя)", "x0": 267.0, "x1": 283.0, "y0": 267.0, "y1": 283.0, "z0": 243, "z1": 267, "color": "#4F5862", "group": "strap", "num": null}, {"name": "Механизм натяжения ремня", "x0": 254.0, "x1": 296.0, "y0": 279.0, "y1": 288.0, "z0": 560, "z1": 640, "color": "#3A424A", "group": "strap", "num": null}]};
+const MODEL = {"boxes": [{"name": "Грунт", "x0": -600, "x1": 600, "y0": -600, "y1": 600, "z0": -1000, "z1": 0, "color": "#CFC8BA", "group": "ground", "num": null}, {"name": "Забивная опора 100×100: пика", "x0": -295, "x1": -255, "y0": -295, "y1": -255, "z0": -900, "z1": 0, "color": "#8D99A6", "group": "base", "num": 9}, {"name": "Забивная опора 100×100: пластина", "x0": -333, "x1": -217, "y0": -333, "y1": -217, "z0": 0, "z1": 3, "color": "#8D99A6", "group": "base", "num": 9}, {"name": "Забивная опора 100×100: стакан", "x0": -327, "x1": -325, "y0": -327, "y1": -223, "z0": 3, "z1": 150, "color": "#8D99A6", "group": "base", "num": 9}, {"name": "Забивная опора 100×100: стакан", "x0": -225, "x1": -223, "y0": -327, "y1": -223, "z0": 3, "z1": 150, "color": "#8D99A6", "group": "base", "num": 9}, {"name": "Забивная опора 100×100: стакан", "x0": -325, "x1": -225, "y0": -327, "y1": -325, "z0": 3, "z1": 150, "color": "#8D99A6", "group": "base", "num": 9}, {"name": "Забивная опора 100×100: стакан", "x0": -325, "x1": -225, "y0": -225, "y1": -223, "z0": 3, "z1": 150, "color": "#8D99A6", "group": "base", "num": 9}, {"name": "Ножка: брус 100×100", "x0": -325, "x1": -225, "y0": -325, "y1": -225, "z0": 3, "z1": 260, "color": "#B9824A", "group": "base", "num": 1}, {"name": "Забивная опора 100×100: пика", "x0": -295, "x1": -255, "y0": 255, "y1": 295, "z0": -900, "z1": 0, "color": "#8D99A6", "group": "base", "num": 9}, {"name": "Забивная опора 100×100: пластина", "x0": -333, "x1": -217, "y0": 217, "y1": 333, "z0": 0, "z1": 3, "color": "#8D99A6", "group": "base", "num": 9}, {"name": "Забивная опора 100×100: стакан", "x0": -327, "x1": -325, "y0": 223, "y1": 327, "z0": 3, "z1": 150, "color": "#8D99A6", "group": "base", "num": 9}, {"name": "Забивная опора 100×100: стакан", "x0": -225, "x1": -223, "y0": 223, "y1": 327, "z0": 3, "z1": 150, "color": "#8D99A6", "group": "base", "num": 9}, {"name": "Забивная опора 100×100: стакан", "x0": -325, "x1": -225, "y0": 223, "y1": 225, "z0": 3, "z1": 150, "color": "#8D99A6", "group": "base", "num": 9}, {"name": "Забивная опора 100×100: стакан", "x0": -325, "x1": -225, "y0": 325, "y1": 327, "z0": 3, "z1": 150, "color": "#8D99A6", "group": "base", "num": 9}, {"name": "Ножка: брус 100×100", "x0": -325, "x1": -225, "y0": 225, "y1": 325, "z0": 3, "z1": 260, "color": "#B9824A", "group": "base", "num": 1}, {"name": "Забивная опора 100×100: пика", "x0": 255, "x1": 295, "y0": -295, "y1": -255, "z0": -900, "z1": 0, "color": "#8D99A6", "group": "base", "num": 9}, {"name": "Забивная опора 100×100: пластина", "x0": 217, "x1": 333, "y0": -333, "y1": -217, "z0": 0, "z1": 3, "color": "#8D99A6", "group": "base", "num": 9}, {"name": "Забивная опора 100×100: стакан", "x0": 223, "x1": 225, "y0": -327, "y1": -223, "z0": 3, "z1": 150, "color": "#8D99A6", "group": "base", "num": 9}, {"name": "Забивная опора 100×100: стакан", "x0": 325, "x1": 327, "y0": -327, "y1": -223, "z0": 3, "z1": 150, "color": "#8D99A6", "group": "base", "num": 9}, {"name": "Забивная опора 100×100: стакан", "x0": 225, "x1": 325, "y0": -327, "y1": -325, "z0": 3, "z1": 150, "color": "#8D99A6", "group": "base", "num": 9}, {"name": "Забивная опора 100×100: стакан", "x0": 225, "x1": 325, "y0": -225, "y1": -223, "z0": 3, "z1": 150, "color": "#8D99A6", "group": "base", "num": 9}, {"name": "Ножка: брус 100×100", "x0": 225, "x1": 325, "y0": -325, "y1": -225, "z0": 3, "z1": 260, "color": "#B9824A", "group": "base", "num": 1}, {"name": "Забивная опора 100×100: пика", "x0": 255, "x1": 295, "y0": 255, "y1": 295, "z0": -900, "z1": 0, "color": "#8D99A6", "group": "base", "num": 9}, {"name": "Забивная опора 100×100: пластина", "x0": 217, "x1": 333, "y0": 217, "y1": 333, "z0": 0, "z1": 3, "color": "#8D99A6", "group": "base", "num": 9}, {"name": "Забивная опора 100×100: стакан", "x0": 223, "x1": 225, "y0": 223, "y1": 327, "z0": 3, "z1": 150, "color": "#8D99A6", "group": "base", "num": 9}, {"name": "Забивная опора 100×100: стакан", "x0": 325, "x1": 327, "y0": 223, "y1": 327, "z0": 3, "z1": 150, "color": "#8D99A6", "group": "base", "num": 9}, {"name": "Забивная опора 100×100: стакан", "x0": 225, "x1": 325, "y0": 223, "y1": 225, "z0": 3, "z1": 150, "color": "#8D99A6", "group": "base", "num": 9}, {"name": "Забивная опора 100×100: стакан", "x0": 225, "x1": 325, "y0": 325, "y1": 327, "z0": 3, "z1": 150, "color": "#8D99A6", "group": "base", "num": 9}, {"name": "Ножка: брус 100×100", "x0": 225, "x1": 325, "y0": 225, "y1": 325, "z0": 3, "z1": 260, "color": "#B9824A", "group": "base", "num": 1}, {"name": "Лежень: доска 50×100×650", "x0": -225, "x1": -175, "y0": -325, "y1": 325, "z0": 160, "z1": 260, "color": "#C69159", "group": "base", "num": 2}, {"name": "Лежень: доска 50×100×650", "x0": 175, "x1": 225, "y0": -325, "y1": 325, "z0": 160, "z1": 260, "color": "#C69159", "group": "base", "num": 2}, {"name": "Средняя поперечина: доска 50×100×350 плашмя", "x0": -175, "x1": 175, "y0": -50.0, "y1": 50.0, "z0": 160, "z1": 210, "color": "#B9824A", "group": "base", "num": 3}, {"name": "Проставка, сталь 10 мм (неподвижный конец)", "x0": -87.0, "x1": -7.0, "y0": -32.5, "y1": 32.5, "z0": 210, "z1": 220, "color": "#4F5862", "group": "base", "num": 4}, {"name": "Датчик L6G 300 кг", "x0": -87.0, "x1": 87.0, "y0": -32.5, "y1": 32.5, "z0": 220, "z1": 280, "color": "#C9CED4", "group": "cell", "num": 5}, {"name": "Настил: ламинированная фанера 27 мм, 600×600", "x0": -300.0, "x1": 300.0, "y0": -300.0, "y1": 300.0, "z0": 280, "z1": 307, "color": "#7A4E2D", "group": "deck", "num": 6}, {"name": "Стоп-болт: шуруп-шпилька М10", "x0": -280, "x1": -270, "y0": -280, "y1": -270, "z0": 260, "z1": 296, "color": "#4F5862", "group": "base", "num": 7}, {"name": "Стоп-болт: гайка", "x0": -284, "x1": -266, "y0": -284, "y1": -266, "z0": 296, "z1": 304, "color": "#3A424A", "group": "base", "num": 7}, {"name": "Стоп-болт: шуруп-шпилька М10", "x0": -280, "x1": -270, "y0": 270, "y1": 280, "z0": 260, "z1": 296, "color": "#4F5862", "group": "base", "num": 7}, {"name": "Стоп-болт: гайка", "x0": -284, "x1": -266, "y0": 266, "y1": 284, "z0": 296, "z1": 304, "color": "#3A424A", "group": "base", "num": 7}, {"name": "Стоп-болт: шуруп-шпилька М10", "x0": 270, "x1": 280, "y0": -280, "y1": -270, "z0": 260, "z1": 296, "color": "#4F5862", "group": "base", "num": 7}, {"name": "Стоп-болт: гайка", "x0": 266, "x1": 284, "y0": -284, "y1": -266, "z0": 296, "z1": 304, "color": "#3A424A", "group": "base", "num": 7}, {"name": "Стоп-болт: шуруп-шпилька М10", "x0": 270, "x1": 280, "y0": 270, "y1": 280, "z0": 260, "z1": 296, "color": "#4F5862", "group": "base", "num": 7}, {"name": "Стоп-болт: гайка", "x0": 266, "x1": 284, "y0": 266, "y1": 284, "z0": 296, "z1": 304, "color": "#3A424A", "group": "base", "num": 7}, {"name": "Корпус электроники IP65", "x0": 215, "x1": 365, "y0": 325, "y1": 395, "z0": 160, "z1": 260, "color": "#E6E9EC", "group": "base", "num": 8}, {"name": "Дно: ППУ 550×550×120", "x0": -275.0, "x1": 275.0, "y0": -275.0, "y1": 275.0, "z0": 307, "z1": 427, "color": "#E3BE5A", "group": "hive", "num": null}, {"name": "Корпус: ППУ 520×520×310", "x0": -260.0, "x1": 260.0, "y0": -260.0, "y1": 260.0, "z0": 427, "z1": 737, "color": "#F2D27A", "group": "hive", "num": null}, {"name": "Корпус: ППУ 520×520×310", "x0": -260.0, "x1": 260.0, "y0": -260.0, "y1": 260.0, "z0": 737, "z1": 1047, "color": "#F2D27A", "group": "hive", "num": null}, {"name": "Магазин: ППУ 520×520×160", "x0": -260.0, "x1": 260.0, "y0": -260.0, "y1": 260.0, "z0": 1047, "z1": 1207, "color": "#F2D27A", "group": "hive", "num": null}, {"name": "Крыша: ППУ 550×550×100", "x0": -275.0, "x1": 275.0, "y0": -275.0, "y1": 275.0, "z0": 1207, "z1": 1307, "color": "#C9A445", "group": "hive", "num": null}, {"name": "Ремень крюк-болт: полотно по кромке крыши", "x0": 250.0, "x1": 300.0, "y0": -279.0, "y1": 279.0, "z0": 1307, "z1": 1310, "color": "#E8701A", "group": "strap", "num": null}, {"name": "Ремень: ветвь к передней шпильке", "x0": 250.0, "x1": 300.0, "y0": -279.0, "y1": -275.0, "z0": 245, "z1": 1307, "color": "#E8701A", "group": "strap", "num": null}, {"name": "Ремень: ветвь к задней шпильке", "x0": 250.0, "x1": 300.0, "y0": 275.0, "y1": 279.0, "z0": 245, "z1": 1307, "color": "#E8701A", "group": "strap", "num": null}, {"name": "Крюк ремня за стоп-шпильку (передняя)", "x0": 267.0, "x1": 283.0, "y0": -283.0, "y1": -267.0, "z0": 243, "z1": 267, "color": "#4F5862", "group": "strap", "num": null}, {"name": "Крюк ремня за стоп-шпильку (задняя)", "x0": 267.0, "x1": 283.0, "y0": 267.0, "y1": 283.0, "z0": 243, "z1": 267, "color": "#4F5862", "group": "strap", "num": null}, {"name": "Механизм натяжения ремня", "x0": 254.0, "x1": 296.0, "y0": 279.0, "y1": 288.0, "z0": 560, "z1": 640, "color": "#3A424A", "group": "strap", "num": null}]};

diff --git a/docs/tools/render3d.html b/docs/tools/render3d.html
@@ -106,7 +106,7 @@ if (view === 'frame') {
   const ov = document.getElementById('ov');
   const spots = {
     10: [-275, -327, 70], 1: [-275, -325, 240], 2: [-200, -220, 255], 3: [-60, -50, 180], 4: [-110, -35, 215],
-    5: [0, -35, 255], 6: [-300, -300, 307], 7: [275, -275, 268], 8: [395, 275, 150], 9: [-275, -327, 70],
+    5: [0, -35, 255], 6: [-300, -300, 307], 7: [275, -275, 270], 8: [290, 360, 210], 9: [-275, -327, 70],
   };
   const offs = {
     10: [-150, 50], 1: [-150, -40], 2: [40, 230], 3: [-160, 60], 4: [-150, -60], 5: [-40, 140],

diff --git a/docs/tools/model.py b/docs/tools/model.py
@@ -39,7 +39,7 @@ z_lt = z_frame0 + BOARD                        # 210 — верх средней
 z_cell0 = z_lt + SPACER                        # 220
 z_cell1 = z_cell0 + CELL_H                     # 280
 z_deck = z_cell1 + DECK_T                      # 307 — настил прямо на датчике
-z_leg = z_cell1 - 40                           # 240 — верх ножек; в торце — стоп-шпилька
+z_leg = z_cell1 - 20                           # 260 — вровень с верхом лежней; в торце — стоп-шпилька
 
 HIVE_X, HIVE_Y = 550, 550   # габарит улья по дну и крыше (Нижегородец, реальные размеры)
 
@@ -86,7 +86,7 @@ for sx in (-1, 1):
         box("Стоп-болт: гайка", x - 9, x + 9, y - 9, y + 9, z_deck - STOP_GAP - 8, z_deck - STOP_GAP, "#3A424A", "base", 7)
 
 # 9. Коробка электроники — на наружной грани задней правой ножки (неподвижная часть)
-box("Корпус электроники IP65", LEG + 50, LEG + 120, LEG - 80, LEG + 80, CUP - 90, CUP + 80, BOX, "base", 8)
+box("Корпус электроники IP65", LEG - 60, LEG + 90, LEG + 50, LEG + 120, CUP + 10, CUP + 110, BOX, "base", 8)
 
 # Улей «Нижегородец» из ППУ (beelekar.ru), реальные размеры:
 # дно 550×550×120, корпус 520×520×310, магазин 520×520×160, крыша 550×550×100

diff --git a/docs/BUILD.md b/docs/BUILD.md
@@ -53,7 +53,7 @@
 | № | Деталь | Материал | Размер, мм | Кол-во |
 |---|---|---|---|---|
 | 9 | Забивная опора | под брус 100×100, оцинкованная, стакан 150 мм, общая длина ~1050 мм | — | 4 |
-| 1 | Ножка | брус 100×100, сосна, сухая | 300 (заготовка 350, подрезается по уровню) | 4 |
+| 1 | Ножка | брус 100×100, сосна, сухая | 260 (заготовка 300, подрезается по уровню) | 4 |
 | 2 | Лежень | доска 50×100 на ребро | 650 | 2 |
 | 3 | Средняя поперечина | доска 50×100 **плашмя** | 350 (заготовка 400, подрезается на месте) | 1 |
 | 4 | Проставка | **сталь 10 мм**, по размеру опорной площадки датчика | ≈80×65 | 1 |
@@ -67,7 +67,7 @@
 | Материал | Сколько | Распил |
 |---|---|---|
 | Забивная опора под брус 100×100, общая длина ~1050 мм (пика 900 + стакан 150) | 4 шт. | — |
-| Брус 100×100, сосна, сухая | 4 куска по 350 | можно попросить обрезки |
+| Брус 100×100, сосна, сухая | 4 куска по 300 | можно попросить обрезки |
 | Доска 50×100×3000, сосна, сухая, строганая | 1 шт. | 650 + 650 + 400, остаток ~1,2 м — на ступеньку и запас |
 | Ламинированная фанера, гладкая (F/F), 27 мм | 600×600 | попроси раскроить в магазине |
 | Полоса стальная 80×10 (или 70×10, по датчику) | 2 куска ≈80 | проставки; отрезать можно в любой металлобазе или мастерской |
@@ -76,7 +76,7 @@
 **Сообщение на лесопилку:**
 
 > Здравствуйте! Хочу заказать с распилом в размер:
-> 1. Брус 100×100, сосна, сухая — 4 шт. по 350 мм.
+> 1. Брус 100×100, сосна, сухая — 4 шт. по 300 мм.
 > 2. Доска 50×100×3000, сосна, сухая, строганая — 1 шт., распилить на 650, 650, 400 мм, остаток тоже заберу.
 >
 > Брус без крупных сучков и трещин. Если есть, ещё нужен кусок ламинированной фанеры, гладкой, 27–30 мм, размером 600×600 мм.
@@ -149,7 +149,7 @@
 1. **Место.** Выбери ровное место с защитой от ветра (забор, кусты), леток на юг или юго-восток. **Проверь грунт:** забей лом или металлический штырь на 80–90 см в нескольких точках. Если упирается в камни, опору там не забить.
 2. **Шаблон.** Сбей из обрезков досок квадрат **550 × 550 мм по осям опор** и проверь, что диагонали равны. Положи его на землю там, где будет улей.
 3. **Опоры.** Забивай каждую опору по углу шаблона кувалдой через обрезок бруса, вставленный в стакан. **Каждые несколько ударов проверяй вертикаль уровнем** с двух сторон: потом выровнять уже не получится. Забивай, пока пластина у основания стакана не встанет на землю. Стаканы не обязаны оказаться на одной высоте — разницу уберёшь, когда будешь подрезать ножки.
-4. **Ножки.** Обработай нижние торцы антисептиком, вставь ножки в стаканы и прикрути саморезами 5×50 через отверстия стакана, по 4 на ножку. Срежь верх ножек по уровню: задние — на **300 мм над землёй** (расчёт для датчика высотой 60 мм; если у твоего выше/ниже — сдвинь на разницу), передние на **1–2 см ниже**. Так улей будет немного наклонён к летку, и конденсат будет стекать наружу, а не на дно.
+4. **Ножки.** Обработай нижние торцы антисептиком, вставь ножки в стаканы и прикрути саморезами 5×50 через отверстия стакана, по 4 на ножку. Срежь верх ножек по уровню: задние — на **260 мм над землёй, вровень с верхом лежней** (расчёт для датчика высотой 60 мм; если у твоего выше/ниже — сдвинь на разницу), передние на **1–2 см ниже**. Так улей будет немного наклонён к летку, и конденсат будет стекать наружу, а не на дно.
 5. **Лежни.** Приставь лежни к внутренним граням ножек так, чтобы их низ был **на 1 см выше края стакана** (примерно 160 мм от земли, у передних ножек — с тем же наклоном). Прикрути двумя болтами М10×160 насквозь на каждую ножку.
 6. **Средняя поперечина.** Сначала прикрути к внутренним граням лежней два усиленных уголка-полки (саморезы 6×40 в вертикальную полку): горизонтальные полки должны «смотреть» друг на друга и стоять вровень с низом лежней — на них ляжет доска. Потом измерь расстояние между лежнями, подрежь заготовку 400 мм точно в размер, положи доску на полки точно по центру, плашмя. Закрепи глухарями 10×120 через лежень в торец и докрути верхние саморезы полок уже в поперечину: она несёт весь улей.
 7. **Датчик снизу.** Положи на поперечину проставку под **неподвижный** конец датчика (с этой стороны обычно выходит кабель). **Стрелка на датчике должна смотреть вниз**, по направлению нагрузки. Насквозь просверли поперечину Ø9 по отверстиям датчика. Болты М8×85 вставь снизу через пластину 60×60×4 и затяни моментом из паспорта (25 Н·м).
@@ -157,7 +157,7 @@
 9. **Стоп-болты.** Вкрути шуруп-шпильки в торцы ножек. Верхнюю гайку выставь так, чтобы до настила оставалось **3 мм**, и законтри нижней гайкой. Торец ножки вокруг шпильки замажь герметиком.
 10. **Проверка.** Нажми на угол настила: он должен уйти на 2–3 мм и встать на стоп-болт. Толкни настил вбок: рама не должна ходить.
 11. **Улей.** Поставь улей ножками дна по центру настила. Два ремня веди параллельно траверсе, **в 15 см от её оси**: через крышу, вниз по бокам улья и под настилом по низу фанеры. Затяни храповиками. Ремень должен прилегать к фанере, а не провисать к лежням. Альтернатива петлям — **самозатягивающийся ремень крюк-болт**: крюки за стоп-шпильки передней и задней ножек, ремень через крышу вдоль летка. Так улей держится за раму: отрыв держат шпильки, датчик видит только прижим.
-12. **Второй этап.** Корпус электроники крепится на наружную грань задней ножки, то есть на неподвижную часть. Потом подключение и калибровка по [README](../README.md#калибровка).
+12. **Второй этап.** Корпус электроники крепится на **заднюю грань** задней ножки — она чистая, без болтов (наружная занята гайками М10), и это неподвижная часть. Потом подключение и калибровка по [README](../README.md#калибровка).
 
 > [!WARNING]
 > Ремни и любые другие крепления должны охватывать **только улей и настил**. Если ремень, провод или ветка касается лежней, поперечины или ножек, часть веса уходит мимо датчика.
